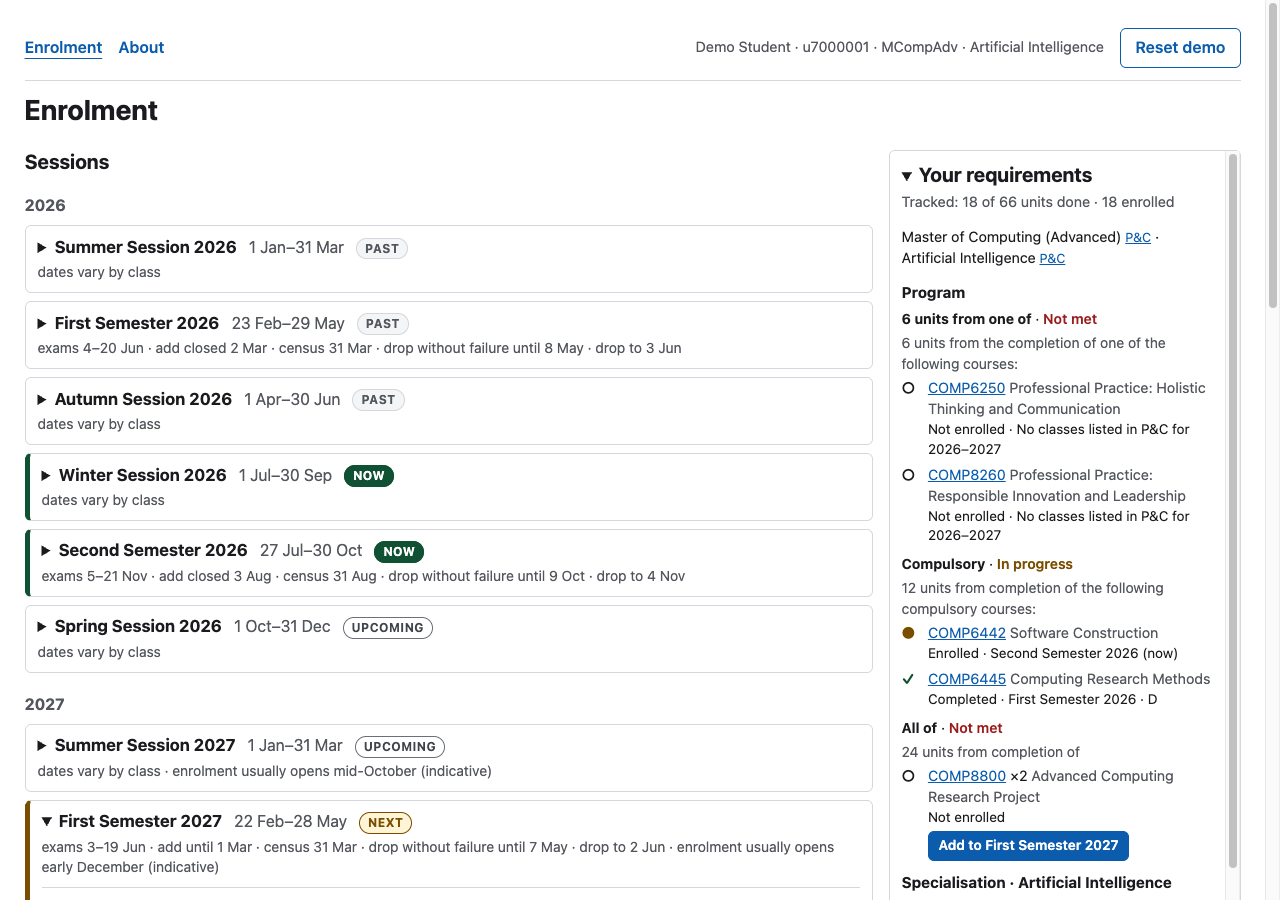
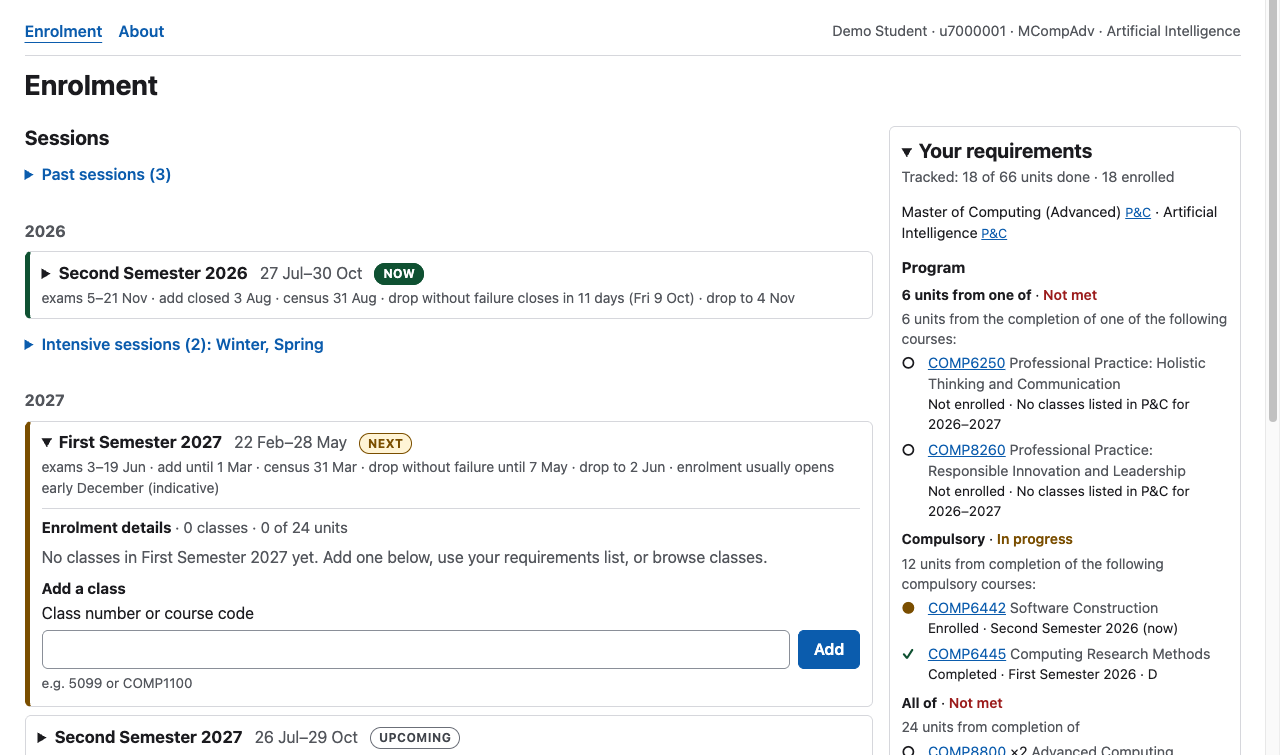
docs: the six post-M2 improvements in the README, PROCESS.md and the ledger
README: the before/after table gains the drop, permission-code and tutorials rows; a retaken sessions screenshot and a new drop-confirmation one. PROCESS.md quotes the prompts and cites each commit. The ledger records the rulings.

diff --git a/README.md b/README.md
@@ -27,11 +27,14 @@ answers:
 
 | ANUHub today | This prototype |
 |---|---|
-| A session list with no dates and no current or next marker. | Every session shows its dates and key deadlines (exams, add, census, drop), badged **Now**, **Next** or **Upcoming**. |
+| A session list with no dates and no current or next marker. | Every session shows its dates and key deadlines (exams, add, census, drop), badged **Now**, **Next** or **Upcoming**. Deadlines within a fortnight count down ("drop without failure closes in 11 days"). Past sessions, and intensive sessions with none of your classes, fold away, so the semester you're enrolling for sits near the top. |
 | Enrolment Details replaces the list; changing session means backing out. | Each session is a disclosure row: its enrolment details unfold in place. |
 | Class numbers only, looked up elsewhere. | A class number **or** a course code. A course with one class is added directly; a course with several opens an inline chooser showing each class's mode and dates. |
 | Search needs a career and a subject area, and adds one class per click. | Every filter is optional, search covers codes, titles and descriptions, and several classes can be added at once. |
 | Program requirements live on another site, as prose. | A sidebar tracks the program's and major's course lists, with each course's status and a one-click Add. |
+| ANU's rules for dropping (census fees, WD and WN grades, the international 24-unit rule) sit on separate pages. | Once a class has started, Drop asks first, and the confirmation says what dropping now costs, from those rules and the class's own dates. A class that hasn't started drops in one click and leaves no record. |
+| The permission-number box appears every time, whether or not a class needs a code (CBE's guide). | A class is flagged only where ANUHub would ask this student for a code, with a link to how to get one. |
+| Tutorials are chosen in a separate system, MyTimetable. | Each class links to its P&C class page and timetable, and a session with current or upcoming classes points to MyTimetable. |
 
 <img src="public/readme/before-sessions.png" alt="ANUHub's session list: sessions and a program, with no dates">
 
@@ -44,7 +47,9 @@ answers:
 *Before: crops of the live ANUHub pages, 24 September 2026, reproduced with
 the student's permission.*
 
-<img src="public/readme/after-sessions.png" alt="The redesign: sessions with dates and Now/Next badges beside the requirements sidebar">
+<img src="public/readme/after-sessions.png" alt="The redesign: past and intensive sessions folded, the current and next semesters first with a deadline counting down, beside the requirements sidebar">
+
+<img src="public/readme/after-drop-confirm.png" alt="Dropping a class that has started asks first and lists what it costs: no re-adding, still charged, WD until 9 Oct, and the international load rule">
 
 <img src="public/readme/after-chooser.png" alt="Typing POGO8062 opens a chooser in place, with each class's mode and dates">
 
@@ -61,17 +66,21 @@ tests that run against the built server (`spec/`): the badges and dates, the
 in-place details, every add path and its messages, the 24-unit cap, drop
 deadlines, persistence across a reload, sandbox isolation, the catalogue's
 filters and links, the sidebar's statuses, and that every course code on the
-page exists in the snapshot. axe runs on every server-rendered state in the
+page exists in the snapshot. They also pin the folds, the countdowns, what
+the drop confirmation says in each census window, where permission codes
+apply, the class-page links, and where focus lands after each kind of write.
+axe runs on every server-rendered state in the
 suite, and a real-browser pass checked contrast, keyboard use and the phone
 layout. **Judgement calls** that no test settles: the wording, which
 requirement prose counts as a trackable course list, and the layout.
 
-**What it deliberately leaves out.** Real sign-in, permission codes,
-prerequisite checking (P&C publishes prerequisites only as prose, so the page
-shows them and doesn't enforce them), undo (the reverse of an add is a drop),
-swap, overloads, fees, seats and waitlists, tutorials, and any rule in a
-program that isn't a list of courses — those are shown verbatim under
-"Other rules, not tracked".
+**What it deliberately leaves out.** Real sign-in, asking for or checking
+permission codes (the page only flags where ANUHub would ask), prerequisite
+checking (P&C publishes prerequisites only as prose, so the page shows them
+and doesn't enforce them), undo (the reverse of an add is a drop), swap,
+overloads, fees, seats and waitlists, choosing tutorials (the page points to
+MyTimetable), and any rule in a program that isn't a list of courses — those
+are shown verbatim under "Other rules, not tracked".
 
 ## Where the data comes from
 

diff --git a/docs/superpowers/plans/2026-09-24-enrolment-redesign-ledger.md b/docs/superpowers/plans/2026-09-24-enrolment-redesign-ledger.md
@@ -104,3 +104,17 @@ Final: Ruling: declined — scripts/pc/fetch.ts has its own canberraDate — the
 Final: Ruling: declined — visual design and wording beyond the copy table — the user's judgement, already checked in the browser passes — cost if wrong: none
 Final: Ruling: declined — process rulings (deploying from the worktree through mise, TDD step order) — process, not product — cost if wrong: none
 Fix 2026-09-27: Ruling: a drop before the class's own start date deletes the enrolment instead of marking it Dropped (user report: a class dropped before semester start shouldn't stay in the history); the line is the class start, not the session start, because intensive classes run on their own dates, and the two differ for only 4 of 327 semester classes — cost if wrong: those 4 classes switch from "no record" to "Dropped" a few days off the semester start
+
+## After M2: six improvements (2026-09-27/28)
+
+Request: "add 1-6, ask first for all drop except for sessions not started, and add drop consequence explaining for other sessions."
+
+Post-M2: Ruling: "not started" is judged by the class's own start date, the line 6138b2b already uses for leaving no record, not the session's — intensive classes run on their own dates, and for semesters the two agree for all but 4 of 327 classes — cost if wrong: those 4 classes, and intensive classes, would ask first a few days early or late
+Post-M2: Ruling: the international 24-unit half-year line appears only in the confirmation for a started class, not in the one-click note for a class that hasn't started — before a semester starts, a partial load is normal planning, and the note would fire on almost every future class — cost if wrong: an international student dropping a not-yet-started class isn't reminded of the rule
+Post-M2: Ruling: drop consequences use the class's own census date (P&C gives one per class), the session's drop-without-failure date for WD versus WN, and WD for intensive classes (ANU's census page grades non-standard sessions WD up to the class's last day); the existing self-service drop deadline (day before exams) is unchanged although ANU's census page lists end of teaching as the last WN date — cost if wrong: between the end of teaching and exams the page still offers a drop ANU might not
+Post-M2: Ruling: countdowns cover 0-14 days and only the semester add deadline gets a time (11:59pm, from ANU's pages; CBE's page says 11:50pm) — cost if wrong: a CBE student reads 11:59pm
+Post-M2: Ruling: permission codes are flagged for a class from another career (research §8d) or a P&C requisite sentence mentioning a code, read with P&C's two conditions ("in intensive mode" → intensive classes only; "previously completed X" → only when X is completed); every other wording counts as always — 15 always, 2 conditional on history, 1 intensive-only in the snapshot — cost if wrong: a course whose sentence is conditional in some other wording would be flagged for everyone
+Post-M2: Ruling: per-class links go to P&C's class page (checked for a 2027 semester class and a 2026 Autumn class), which carries P&C's own timetable link, rather than a guessed deep link into the timetabling publisher; the tutorials line links ANU's timetabling pages because MyTimetable answered 410 to fetches — cost if wrong: one extra click to reach the timetable
+Post-M2: Ruling: after a write, focus stays on the control used, or its nearest replacement (add input, sidebar course link, bulk bar Dismiss, class row), and the notices region no longer takes focus; this supersedes spec §6.6, and the network test that asserted focus on the notices was updated with the spec — cost if wrong: a screen-reader user relies on the polite announcement instead of focus
+Post-M2: Ruling: the README's after-sessions screenshot was retaken to show the folds and a live countdown; the new drop-confirmation screenshot carries the real date's "(in 11 days)" — cost if wrong: the images date themselves to 28 Sep 2026
+Post-M2: Ruling: the earlier suggestion message said the phone add box was 3.4 screens down; that was measured before the sidebar collapsed on hydration. The fair figure, measured on the old live build after hydration, is 2.24 screens (1,889 px), now 1.58 — cost if wrong: none now; the report corrects it

diff --git a/PROCESS.md b/PROCESS.md
@@ -192,6 +192,64 @@ All five were fixed, each behaviour change test-first
 ([`446c317`](https://github.com/comp4020-agentic-coding-studio/comp4020-crit7-rangermix/commit/446c317)).
 The remaining minors are listed for me to decide on.
 
+### After M2: six improvements I chose from measurements
+
+Trying the live page myself, I found a class dropped before the semester
+started still sat in the history:
+
+> before semester start dropping class should no remain in history.
+
+That became
+[`6138b2b`](https://github.com/comp4020-agentic-coding-studio/comp4020-crit7-rangermix/commit/6138b2b).
+Then I asked:
+
+> other improvements you can think of on the enrolling page?
+
+The agent measured the build before suggesting anything:
+- the next semester's add box was 1,129 px down on a laptop;
+- adding from the catalogue threw the page back to the top;
+- Drop acted in one click on classes that could no longer be added back;
+- 18 courses' requisites mention a permission code.
+
+I picked six and changed one of them:
+
+> add 1-6, ask first for all drop except for sessions not started, and add
+> drop consequence explaining for other sessions.
+
+Each change was test-first, in its own commit:
+
+- **Past and quiet sessions fold away**
+  ([`94cca85`](https://github.com/comp4020-agentic-coding-studio/comp4020-crit7-rangermix/commit/94cca85)).
+  The add box moved from 1,129 to 775 px down on a laptop, and from 1,889 to
+  1,335 px on a phone.
+- **Deadlines count down** within a fortnight
+  ([`6be009c`](https://github.com/comp4020-agentic-coding-studio/comp4020-crit7-rangermix/commit/6be009c)).
+- **Drop asks first once a class has started**, and says what it costs
+  ([`b3c0a06`](https://github.com/comp4020-agentic-coding-studio/comp4020-crit7-rangermix/commit/b3c0a06)).
+  The wording comes from ANU's census-dates page: no fee or grade on or
+  before census, then WD until the drop-without-failure date, then WN. It
+  also covers re-adding and the international 24-unit half-year rule.
+- **Permission codes are flagged only where ANUHub would ask**
+  ([`d0c8c37`](https://github.com/comp4020-agentic-coding-studio/comp4020-crit7-rangermix/commit/d0c8c37)).
+  That covers a class from the other career, and P&C sentences read with
+  their conditions: COMP8430 needs one only in intensive mode, and COMP8712
+  only after COMP3710.
+- **Each class links to its P&C class page and timetable**, and sessions
+  with classes point to MyTimetable
+  ([`dec62cd`](https://github.com/comp4020-agentic-coding-studio/comp4020-crit7-rangermix/commit/dec62cd)).
+- **The student keeps their place after a write**
+  ([`4c47140`](https://github.com/comp4020-agentic-coding-studio/comp4020-crit7-rangermix/commit/4c47140)).
+  Focus stays on the control used, and the outcome shows beside it; the
+  notices region announces it without taking focus.
+
+The checks caught three things along the way:
+- The agent's first phone measurement was taken before the sidebar
+  collapsed, so it said 3.4 screens. The fair figure was 2.24.
+- A hand count of permission-code courses was one off; running the rule
+  itself gave the real number.
+- MyTimetable refuses automated requests, so the page links ANU's
+  timetabling information instead of a URL it couldn't check.
+
 ### How I know it works
 
 `pnpm check` runs a type check, the build, and every test: parsers, the golden
